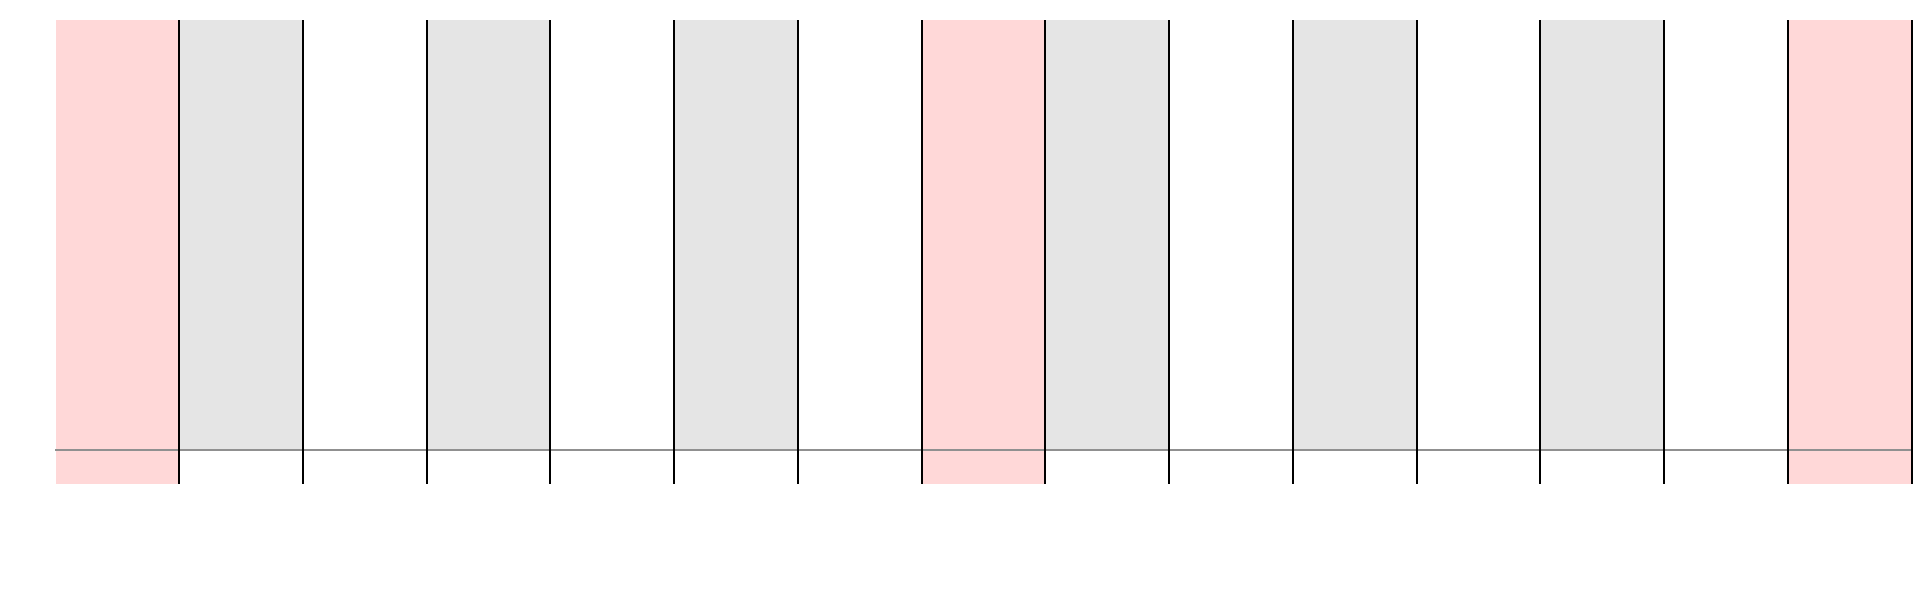
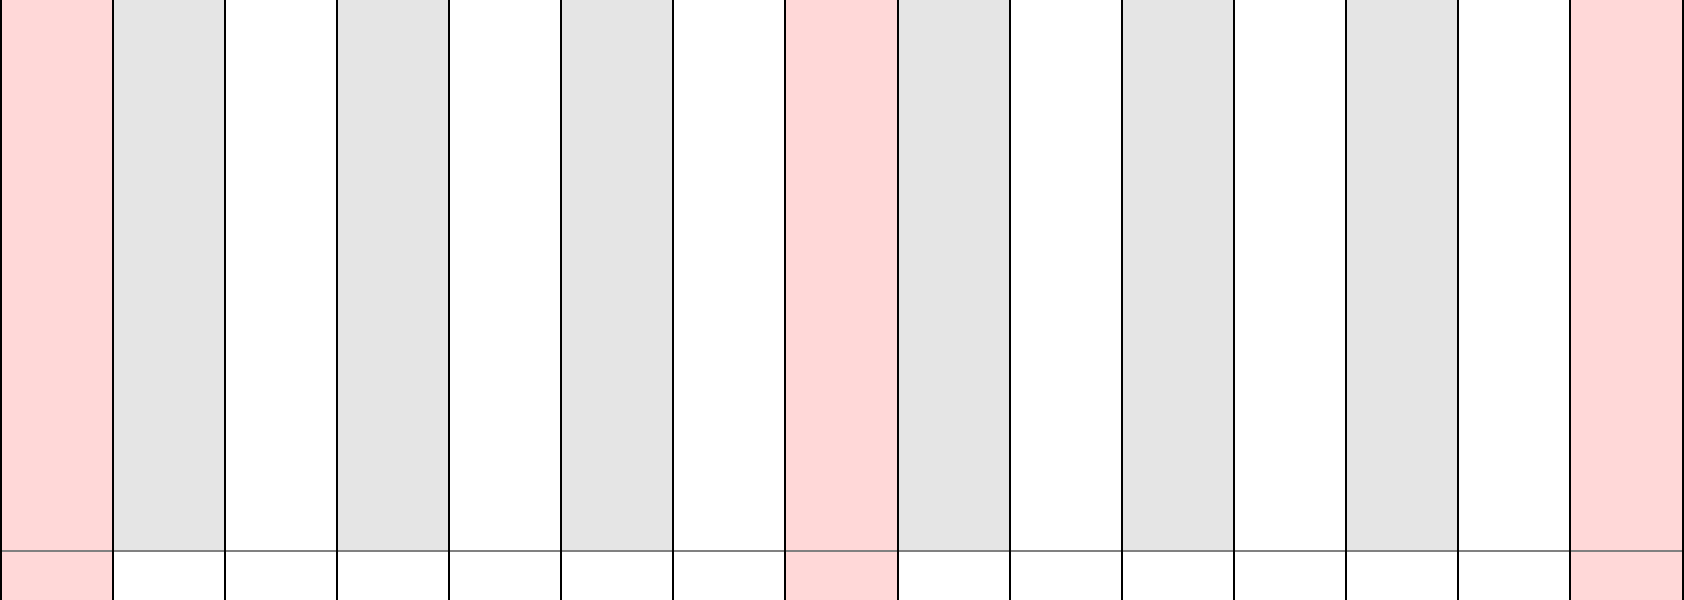
Adjust chart background positioning and regenerate with extended Sunday columns and grid lines

diff --git a/various/chart-bg-generator.py b/various/chart-bg-generator.py
@@ -5,7 +5,7 @@ import os
 from PIL import Image, ImageDraw
 
 # Matches the chart container width in statsDiagrams.php
-divWidth = 1600+356
+divWidth = 1600+84
 divHeight = 600
 
 transparency = 180
@@ -16,7 +16,7 @@ days = len(dayNames)
 
 
 # top, right, bottom, left (like in css, https://www.w3schools.com/css/css_padding.asp)
-chartPadding = (20, 0, 40+77, 100)
+chartPadding = (0, 2, 50, 0)
 
 #index
 left = 3
@@ -45,15 +45,21 @@ draw = ImageDraw.Draw(im)
 #draw.rectangle([chartPadding[left], divHeight-chartPadding[bottom]-1, chartPadding[left]+chartWidth, chartPadding[top]], outline=(255, 0, 0, 255))
 
 
+lineWidth = 2
+
+bottomY = chartPadding[top] + chartHeight
+extensionHeight = 50
+lineBottomY = bottomY + extensionHeight
+
 print("x1, y1, x2, y2")
 for day in range(days):
     x1 = chartPadding[left] + day * dayWidth
     x2 = x1 + dayWidth
-    
+
     y1 = chartPadding[top]
-    y2 = chartPadding[top]+dayHeight 
+    y2 = bottomY
     print(day, dayNames[day], x1, y1, x2, y2)
-    
+
     if dayNames[day] == "So": # sundays
         color = (255, 200, 200, transparency)
     elif (dayNames[day] == "Mo") or (dayNames[day] == "Mi") or (dayNames[day] == "Fr"): # Mo, Mi, Fr
@@ -63,6 +69,28 @@ for day in range(days):
 
     draw.rectangle([x1, y1, x2, y2], outline=None, fill=color)
 
+# Sundays get a red extension below the main chart area.
+for day in range(days):
+    if dayNames[day] != "So":
+        continue
+    x1 = chartPadding[left] + day * dayWidth
+    x2 = x1 + dayWidth
+    draw.rectangle([x1, bottomY, x2, lineBottomY], outline=None, fill=(255, 200, 200, transparency))
+
+# Draw the main horizontal line at the bottom of the main chart area in gray,
+# crossing all columns.
+draw.line(
+    [(chartPadding[left], bottomY), (chartPadding[left] + chartWidth, bottomY)],
+    fill=(128, 128, 128, 255),
+    width=lineWidth
+)
+
+# Draw vertical black lines between day columns on top of everything,
+# all the way down to the bottom of the Sunday extensions, including the
+# outer edges of the first and last columns.
+for day in range(days + 1):
+    x = chartPadding[left] + day * dayWidth
+    draw.line([(x, chartPadding[top]), (x, lineBottomY)], fill=(0, 0, 0, 255), width=lineWidth)
 
 
 # save image relative to this script, so it works from any CWD

diff --git a/src/statsDiagrams.php b/src/statsDiagrams.php
@@ -263,9 +263,9 @@ function createDiagramContainer(dataId) {
     var legendOverlay = config.legendImage
         ? '<img src="images/' + config.legendImage + '" style="position: absolute; top: 50px; left: 150px; z-index: 1; pointer-events: none;" alt="">'
         : '';
-    var chartHtml = '<div style="width: 1825px; height: 470px; margin: 0; padding: 0; background-image: url(images/' + config.bgImage + '); background-repeat: no-repeat; background-position: -9px -20px; position: relative;">';
+    var chartHtml = '<div style="width: 1825px; height: 470px; margin: 0; padding: 0; background-image: url(images/' + config.bgImage + '); background-repeat: no-repeat; background-position: 46px -120px; position: relative;">';
     chartHtml += legendOverlay;
-    chartHtml += '<div id="' + chartId + '" style="position: relative; z-index: 2; width: ' + (1825 - config.paddingLeft) + 'px; margin: 0; padding: 0 0 0 ' + config.paddingLeft + 'px; height: 100%;">';
+    chartHtml += '<div id="' + chartId + '" style="position: relative; z-index: 2; width: ' + (1822 - config.paddingLeft) + 'px; margin: 0; padding: 0 0 0 ' + config.paddingLeft + 'px; height: 100%;">';
     chartHtml += '<div id="loading_' + chartId + '" style="position: absolute; top: 50%; left: 50%; transform: translate(-50%, -50%); background: rgba(255, 255, 255, 0.9); padding: 20px; border-radius: 8px; text-align: center; font-size: 16px; font-weight: bold; color: #333; box-shadow: 0 2px 10px rgba(0,0,0,0.1);">Lade Diagramm...</div>';
     chartHtml += '</div>';
     chartHtml += '</div>';
